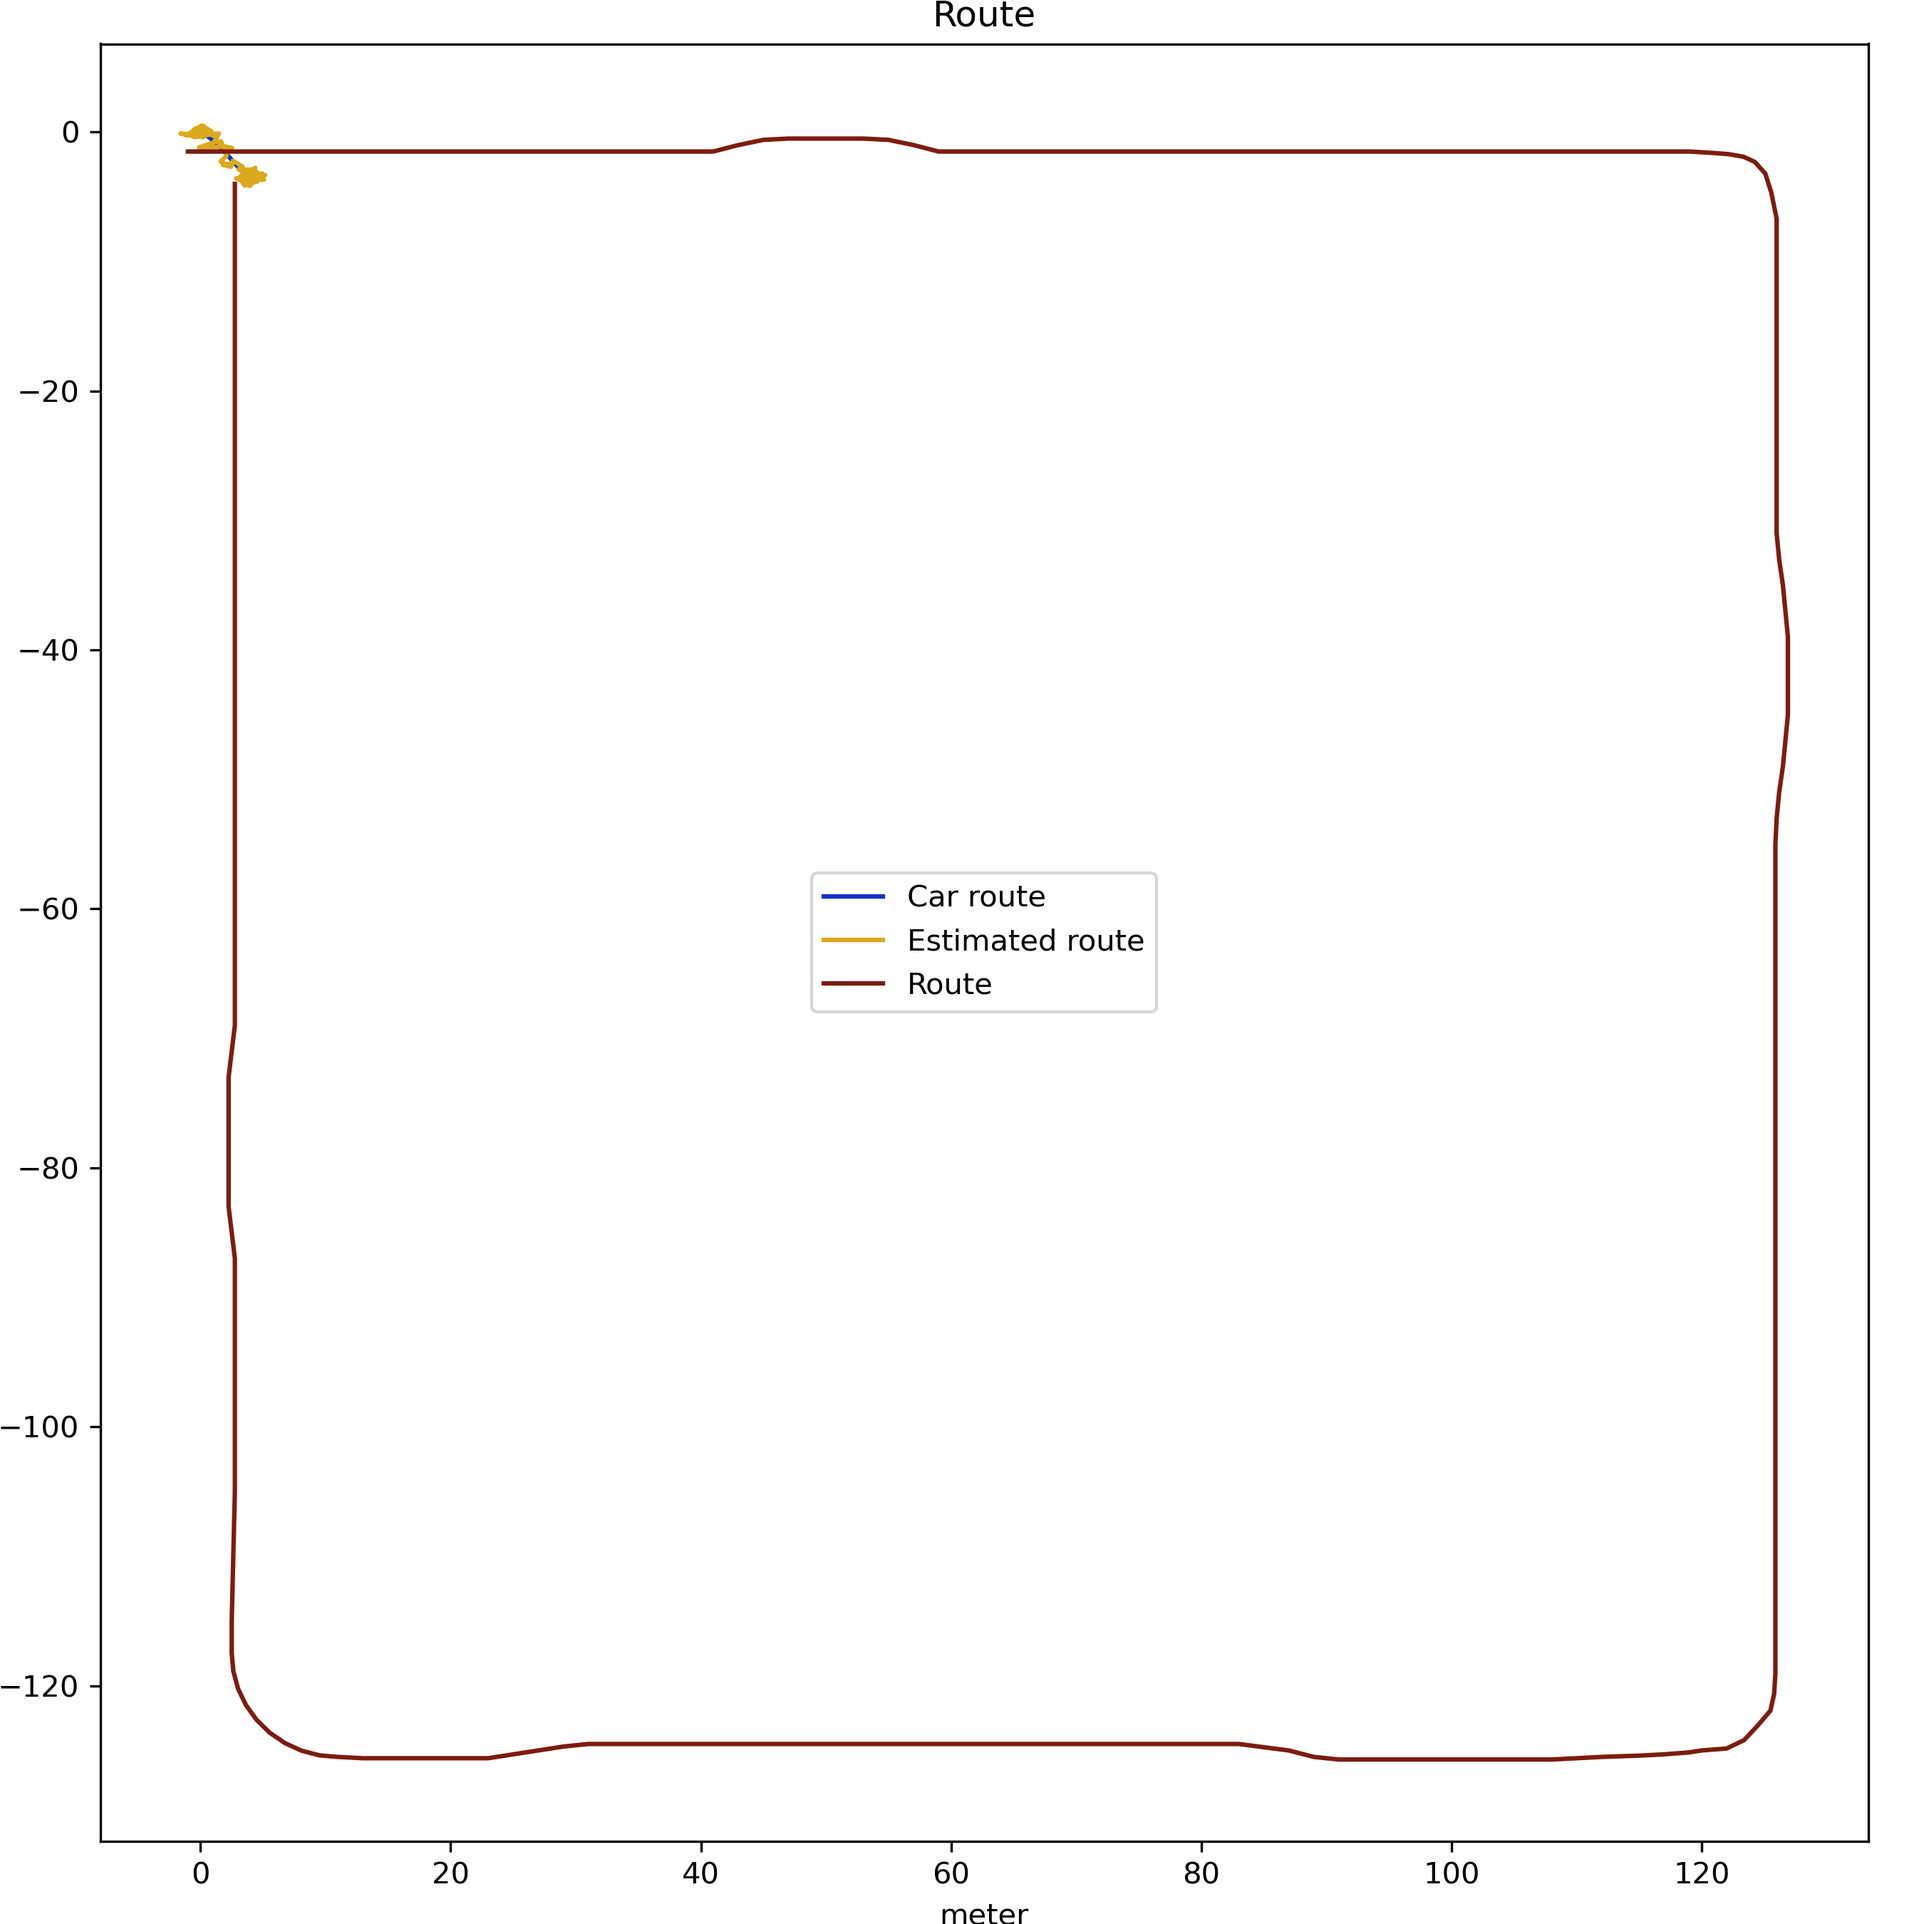
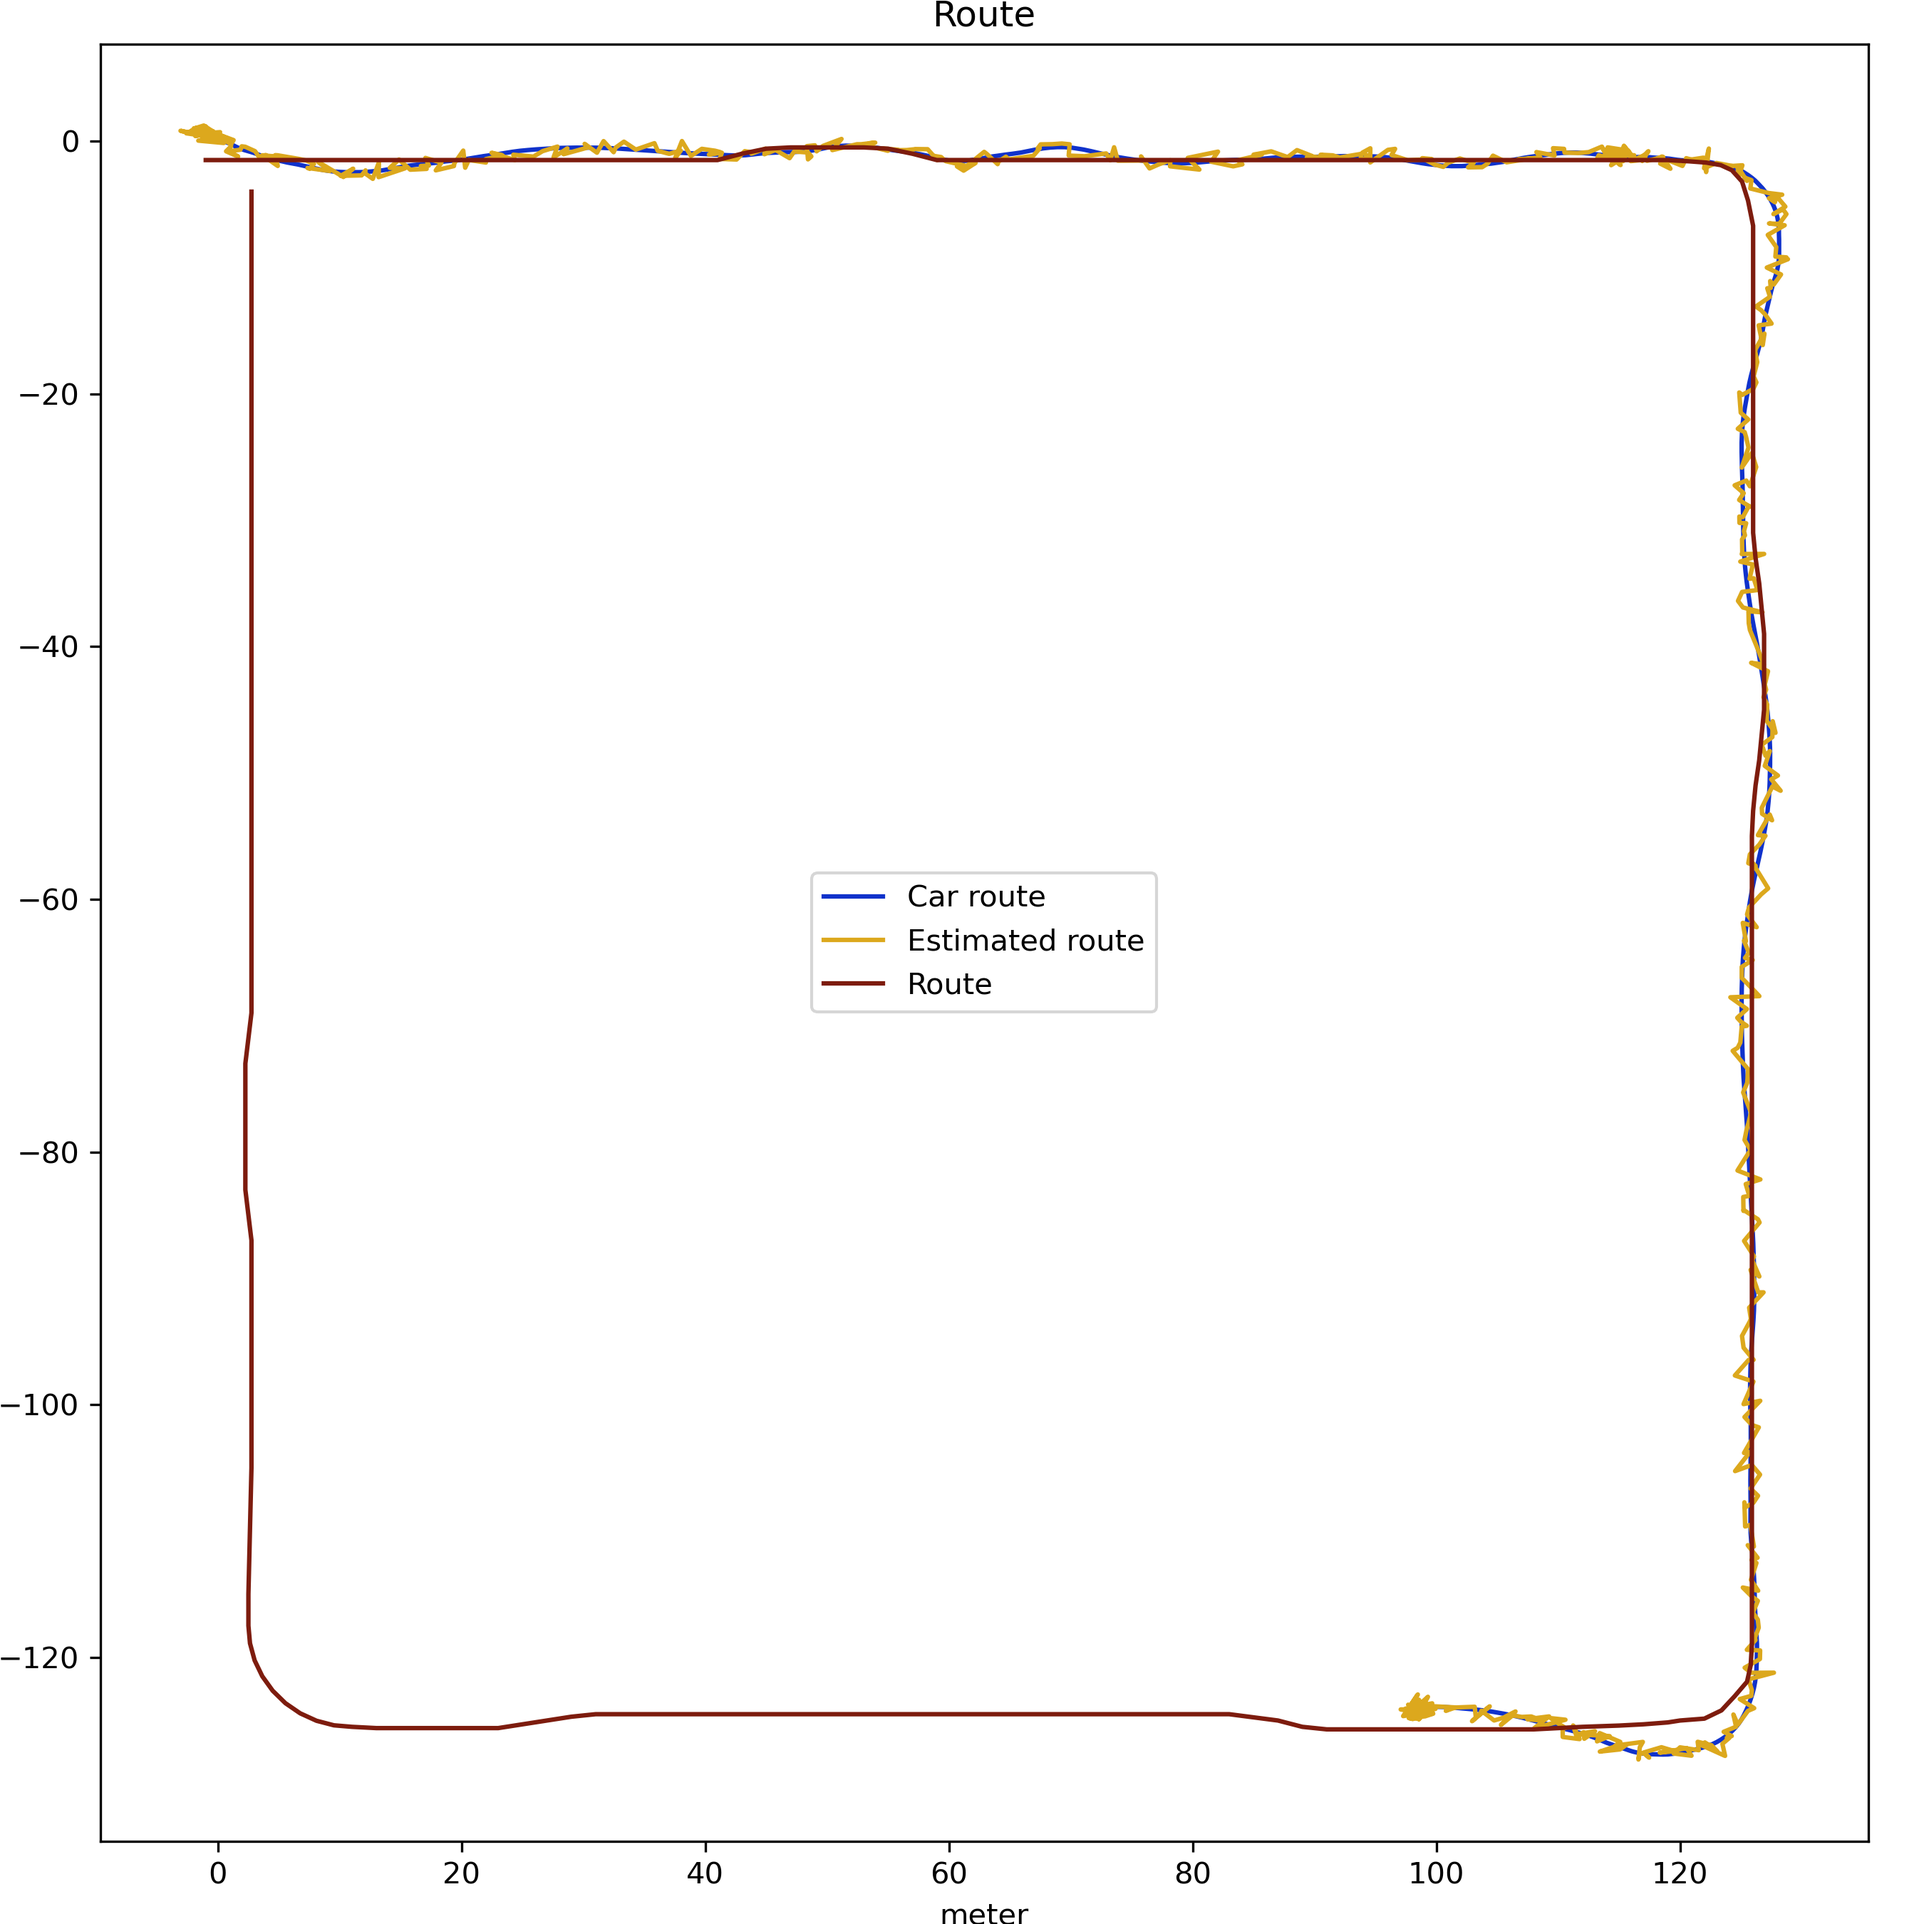
update

diff --git a/student_task.py b/student_task.py
@@ -1,7 +1,10 @@
 import airsim
+from airsim import Vector3r
+from typing import List
+
 from manager import Manager
 import numpy as np
-from numpy import dot
+from numpy import dot, ndarray
 from numpy.linalg import inv
 
 
@@ -44,26 +47,31 @@ class KalmanFilter:
         # 2. Define the output matrix C
         # ****************************************************************
         # TODO: Determine which states you measure with the sensors.
-        self.C = np.array([[1, 0, 0],
-                           [0, 1, 0]])
-
+        self.C = np.array([[1, 0, 0, 0],
+                           [0, 1, 0, 0],
+                           [0, 0, 0, 0],
+                           [0, 0, 0, 0]])
 
         # ****************************************************************
         # 3. Define the system matrix
         # ****************************************************************
         # TODO: Define, with the motion model of your car, the system matrix.
-        self.A = np.array([[1, delta_seconds, 1 / 2. * delta_seconds ** 2],
-                           [0, 1, delta_seconds],
-                           [0, 0, 1]])
+        # self.A = np.array([[1, delta_seconds, 1 / 2. * delta_seconds ** 2],
+        #                    [0, 1, delta_seconds],
+        #                    [0, 0, 1]])
+        self.A = np.array([[1, 0, delta_seconds, 0],
+                           [0, 1, 0, delta_seconds, 0],
+                           [0, 0, 1, 0, 0],
+                           [0, 0, 0, 1, 0]])
 
         # ****************************************************************
         # 4. Define the measurement noise covariance matrix.
         # ****************************************************************
         # The R matrix indicates the inaccuracy of our measurement vector y.
         # TODO: Add the variance for the measurement noise of each sensor.
-        self.R = np.diag([[gps_stddev_x ** 2, 0],
-                          [0, imu_stddev ** 2]])
-
+        # self.R = np.diag([[gps_stddev_x ** 2, 0],
+        #                   [0, imu_stddev ** 2]])
+        self.R = np.diag([gps_stddev_x ** 2, gps_stddev_y ** 2, imu_stddev ** 2, imu_stddev ** 2])
         # ****************************************************************
         # 5. The process noise matrix
         # ****************************************************************
@@ -74,15 +82,15 @@ class KalmanFilter:
         # The Q matrix has the same dimension as the P and A matrix.
         # TODO: Test with different values. What influence does the Q-Matrix have on the estimation of the Kalman Filter?
         # TODO: Q = np.diag([variance for state1, variance for state2, ...])
-        self.Q = np.diag([0.1, 0.1, 0.1])
-
+        # self.Q = np.diag([0.1, 0.1, 0.1])
+        self.Q = np.diag([imu_stddev, imu_stddev, imu_stddev, imu_stddev])
         # ****************************************************************
         # 6. The initial error covariance matrix P
         # ****************************************************************
         # TODO: Determine the error of the initial state estimate.
         # TODO: dx = np.array([standard deviation from the first state, ...])
-        dx = np.array([gps_stddev_x, gps_stddev_y, imu_stddev])
-
+        # dx = np.array([gps_stddev_x, gps_stddev_y, imu_stddev])
+        dx = np.array([gps_stddev_x, gps_stddev_y, imu_stddev, imu_stddev])
         self.P = np.dot(dx.T, dx)
 
         # *****************************************************************
@@ -90,9 +98,10 @@ class KalmanFilter:
         # *****************************************************************
         # TODO: Determine how much the control_input changes each state vector component.
         # You can implement the Kalman filter at the beginning without the control input and the B matrix.
-        self.B = np.array([[1 / 2. * delta_seconds ** 2],
-                           [delta_seconds],
-                           [1]])
+        # self.B = np.array([[1 / 2. * delta_seconds ** 2],
+        #                    [delta_seconds],
+        #                    [1]])
+        # self.B = np.zeros((4, 2))
 
         # Kalman matrix
         self.K = None
@@ -115,25 +124,35 @@ class KalmanFilter:
         # TODO: Implement the prediction step. Update x with the motion model and calculate P.
 
         # x = A*x + B*u
-        self.x = np.dot(self.A, self.x)# + np.dot(self.B, control_input)
+        # self.x = np.dot(self.A, self.x) + np.dot(self.B, control_input)
 
         # P = A*P*A.T + Q
-        self.P = np.dot(np.dot(self.A, self.P), self.A.T) + self.Q
+        # self.P = np.dot(np.dot(self.A, self.P), self.A.T) + self.Q
 
-        # Update step
+        # Prediction step of the kalman filter
 
         # Correction step
         # TODO: Implement the Correction step. Correct the prediction with the measurements.
 
         # K = P*C.T*(C*P*C.T + R)^-1
-        self.K = np.dot(np.dot(self.P, self.C.T), inv(np.dot(np.dot(self.C, self.P), self.C.T) + self.R))
+        # self.K = np.dot(np.dot(self.P, self.C.T), inv(np.dot(np.dot(self.C, self.P), self.C.T) + self.R))
 
         # x = x + K*(y - C*x)
-        self.x = self.x + np.dot(self.K, (y - np.dot(self.C, self.x)))
+        # self.x = self.x + np.dot(self.K, (y - np.dot(self.C, self.x)))
 
         # P = (I - K*C)*P
-        self.P = np.dot((np.eye(3) - np.dot(self.K, self.C)), self.P)
+        # self.P = np.dot((np.eye(3) - np.dot(self.K, self.C)), self.P)
 
+        # Prediction step of the kalman filter
+        self.x = np.dot(self.A, self.x)
+        self.P = np.dot(np.dot(self.A, self.P), self.A.T) + self.Q
+
+        # Correction step of the kalman filter
+        self.K = np.dot(np.dot(self.P, self.C.T), inv(np.dot(np.dot(self.C, self.P), self.C.T) + self.R))
+        self.x = self.x + np.dot(self.K, (y - np.dot(self.C, self.x)))
+        self.P = np.dot((np.eye(4) - np.dot(self.K, self.C)), self.P)
+
+        # Return the updated state of the car
         return self.x
 
 
@@ -159,14 +178,17 @@ if __name__ == '__main__':
         # TODO: Implement your Kalman Filter here and update the manager with the Kalman Filter estimates of postition and velocity
 
         # Get GPS data
-        gps_position = manager.get_gps_position()
-        gps_velocity = manager.get_gps_velocity()
+        gps_position: Vector3r = manager.get_gps_position()
+        gps_velocity: Vector3r = manager.get_gps_velocity()
+
+        # Get IMU data
+        imu_acceleration: Vector3r = manager.get_imu_lin_acceleration()
 
         # Get the current control input of the car
-        control_input = manager.get_control_input()
+        control_input: ndarray = manager.get_control_input()
 
         # Build the current measurement vector
-        y = np.array([gps_position.x_val, gps_position.y_val, gps_velocity.x_val, gps_velocity.y_val]).T
+        y: ndarray = np.array([gps_position.x_val, gps_position.y_val, imu_acceleration.x_val, imu_acceleration.y_val]).T
 
         # Update the Kalman Filter
         x = kalman_filter.update(y, control_input)
